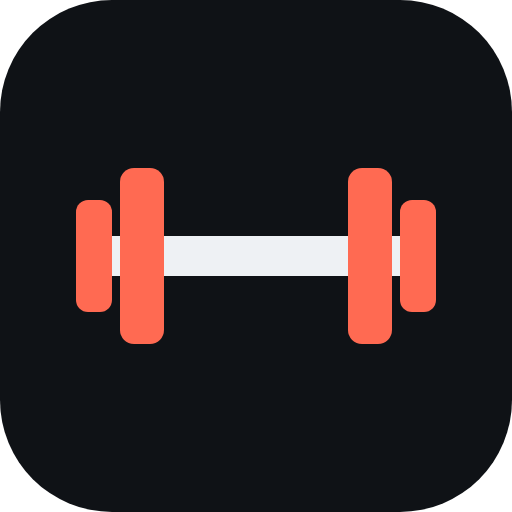
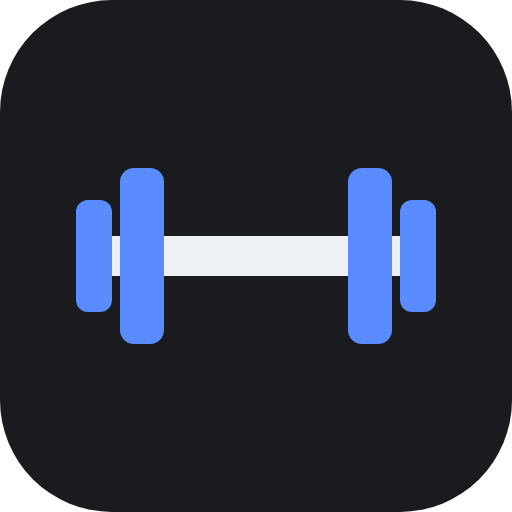
Visual pass: bumper-plate color system and arm's-length type
- Colors carry meaning from the gym: plate blue for actions, green for
  increases, yellow for hold steady, red for back off; cool steel and
  graphite neutrals in light and dark themes
- Big Shoulders Display for numbers, timers and headings so weights and
  countdowns read at arm's length; Atkinson Hyperlegible for body text
- Sentence-case labels instead of all-caps eyebrows and pills
- Coach-note tags styled as plate-colored chips; hold and EMOM timers
  use yellow and green rings
- Plate calculator draws plates in their real colors
- Round steppers, larger set and timer numbers
- App icon and theme color updated to match

Claude-Session: https://claude.ai/code/session_01EAXkF6UoUcypg4fSoQEr4N

Changed region(s): [[0.6562, 0.3125, 0.875, 0.6875], [0.125, 0.3125, 0.3438, 0.6875]]

diff --git a/index.html b/index.html
@@ -9,23 +9,28 @@
 <meta name="apple-mobile-web-app-capable" content="yes">
 <meta name="mobile-web-app-capable" content="yes">
 <title>LiftLog</title>
-<meta name="theme-color" content="#0f1216">
+<meta name="theme-color" content="#191b1e">
 <link rel="preconnect" href="https://fonts.googleapis.com">
-<link rel="stylesheet" href="https://fonts.googleapis.com/css2?family=Inter:wght@400;500;600;700&family=Space+Grotesk:wght@500;700&display=swap">
+<link rel="stylesheet" href="https://fonts.googleapis.com/css2?family=Atkinson+Hyperlegible:wght@400;700&family=Big+Shoulders+Display:wght@600;700;800&display=swap">
 <style>
-/* Layout: one-column phone coach. Sticky header, bottom tabs; the workout screen shows one set at a time with one big button. */
+/* Layout: one-column phone coach. Sticky header, bottom tabs; the workout screen shows one set at a time with big numbers you can read at arm's length.
+   Palette: bumper-plate colors carry meaning. Blue (20 kg plate) = act, green = progress, yellow = hold steady, red = back off. Neutrals are cool steel and rubber-floor graphite. */
 :root{
-  --bg:#eef0f3;--surface:#ffffff;--surface2:#e2e6eb;--fg:#15191e;--muted:#5b6673;--line:#d4dae1;
-  --accent:#d23f2b;--on-accent:#ffffff;--chart:#d23f2b;--done:#e1f3e7;--done-fg:#1b7442;--on-done:#ffffff;--warn:#a85d00;--warn-bg:#fbefdc;--danger:#b8322a;--scrim:rgba(15,18,22,.45);
-  --font-display:"Space Grotesk",ui-sans-serif,system-ui,sans-serif;
-  --font-body:"Inter",ui-sans-serif,system-ui,-apple-system,"Segoe UI",Roboto,sans-serif;
+  --bg:#edf0f3;--surface:#ffffff;--surface2:#e2e7ec;--fg:#14181c;--muted:#55606b;--line:#d2d9e0;
+  --accent:#1f56d0;--on-accent:#ffffff;--chart:#1f56d0;
+  --plate-green:#1d7a44;--plate-yellow:#efc21a;--plate-red:#c8352a;--on-yellow:#1a1606;
+  --done:#ddf0e4;--done-fg:#17703f;--on-done:#ffffff;--warn:#7a5a00;--warn-bg:#fbf0c7;--danger:#b3302a;--scrim:rgba(20,24,28,.45);
+  --font-display:"Big Shoulders Display","Arial Narrow","Roboto Condensed",sans-serif;
+  --font-body:"Atkinson Hyperlegible",ui-sans-serif,system-ui,-apple-system,"Segoe UI",Roboto,sans-serif;
   color-scheme:light}
 @media (prefers-color-scheme:dark){:root:not([data-theme="light"]){
-  --bg:#0f1216;--surface:#181c22;--surface2:#242a32;--fg:#eef1f4;--muted:#8f9aa7;--line:#2b323b;
-  --accent:#ff6a52;--on-accent:#1b0703;--chart:#f2563f;--done:#15301f;--done-fg:#5fd38e;--on-done:#08170e;--warn:#f0b35a;--warn-bg:#33260f;--danger:#ff8274;--scrim:rgba(0,0,0,.6);color-scheme:dark}}
+  --bg:#191b1e;--surface:#222529;--surface2:#2d3136;--fg:#edf0f3;--muted:#9aa4ae;--line:#353a41;
+  --accent:#5b8cff;--on-accent:#0a1430;--chart:#5b8cff;
+  --done:#183322;--done-fg:#61d391;--on-done:#08170e;--warn:#f3cd4b;--warn-bg:#352d10;--danger:#ff8a7c;--scrim:rgba(0,0,0,.6);color-scheme:dark}}
 :root[data-theme="dark"]{
-  --bg:#0f1216;--surface:#181c22;--surface2:#242a32;--fg:#eef1f4;--muted:#8f9aa7;--line:#2b323b;
-  --accent:#ff6a52;--on-accent:#1b0703;--chart:#f2563f;--done:#15301f;--done-fg:#5fd38e;--on-done:#08170e;--warn:#f0b35a;--warn-bg:#33260f;--danger:#ff8274;--scrim:rgba(0,0,0,.6);color-scheme:dark}
+  --bg:#191b1e;--surface:#222529;--surface2:#2d3136;--fg:#edf0f3;--muted:#9aa4ae;--line:#353a41;
+  --accent:#5b8cff;--on-accent:#0a1430;--chart:#5b8cff;
+  --done:#183322;--done-fg:#61d391;--on-done:#08170e;--warn:#f3cd4b;--warn-bg:#352d10;--danger:#ff8a7c;--scrim:rgba(0,0,0,.6);color-scheme:dark}
 *{box-sizing:border-box;-webkit-tap-highlight-color:transparent}
 [hidden]{display:none!important}
 body{margin:0;background:var(--bg);color:var(--fg);font:16px/1.45 var(--font-body);padding-bottom:calc(76px + env(safe-area-inset-bottom,0px))}
@@ -35,9 +40,9 @@ body::before{content:"";position:fixed;inset:0 0 auto;height:env(safe-area-inset
 header{position:sticky;top:env(safe-area-inset-top,0px);background:var(--bg);border-bottom:1px solid var(--line);z-index:5;padding-block:14px 10px}
 header .in{max-width:640px;margin:0 auto;display:flex;align-items:center;justify-content:space-between;gap:8px}
 h1,h3,.fname{font-family:var(--font-display);font-weight:700;margin:0;text-wrap:balance}
-h1{font-size:21px;letter-spacing:-.01em;min-width:0;flex:1}
-h3{font-size:19px}
-h2{font-size:12px;color:var(--muted);font-weight:600;margin:12px 0 -2px;text-transform:uppercase;letter-spacing:.08em}
+h1{font-size:28px;line-height:1;min-width:0;flex:1}
+h3{font-size:24px;line-height:1.1}
+h2{font-size:15px;color:var(--muted);font-weight:700;margin:14px 0 -2px}
 .badge{font-size:12px;color:var(--muted);border:1px solid var(--line);border-radius:999px;padding:3px 10px;white-space:nowrap;font-variant-numeric:tabular-nums}
 .badge.saved::before{content:"● ";color:var(--done-fg)}
 .mic{width:36px;height:36px;border-radius:50%;border:1px solid var(--line);background:var(--surface);color:var(--fg);display:grid;place-items:center;cursor:pointer;flex:none}
@@ -73,10 +78,10 @@ label>span{display:block;font-size:13px;color:var(--muted);margin-bottom:4px}
 .tools{display:grid;grid-template-columns:1fr 1fr;gap:8px}
 .stats{display:flex;gap:8px}
 .stats>div{flex:1;min-width:0}
-.stats strong{font:700 18px var(--font-display);font-variant-numeric:tabular-nums}
+.stats strong{font:800 24px/1.1 var(--font-display);font-variant-numeric:tabular-nums}
 .kpis{display:grid;grid-template-columns:repeat(3,1fr);gap:8px}
 .kpi{background:var(--surface);border:1px solid var(--line);border-radius:12px;padding:12px;min-width:0}
-.kpi strong{display:block;font:700 21px var(--font-display);font-variant-numeric:tabular-nums}
+.kpi strong{display:block;font:800 28px/1.1 var(--font-display);font-variant-numeric:tabular-nums}
 .list{display:flex;flex-direction:column;border:1px solid var(--line);border-radius:12px;overflow:hidden}
 .item{display:flex;justify-content:space-between;align-items:center;gap:8px;width:100%;text-align:left;background:var(--surface);border:0;border-bottom:1px solid var(--line);color:var(--fg);padding:13px 12px;font:15px var(--font-body);cursor:pointer}
 .item:last-child{border-bottom:0}
@@ -85,17 +90,17 @@ label>span{display:block;font-size:13px;color:var(--muted);margin-bottom:4px}
 .exline:first-child{border-top:0}
 .exline>span:first-child{min-width:0}
 .exline>span:last-child{white-space:nowrap;text-align:right}
-.pill{display:inline-block;font-size:11px;font-weight:700;letter-spacing:.05em;padding:1px 7px;border-radius:999px;background:var(--surface2);color:var(--muted);vertical-align:1px;white-space:nowrap}
+.pill{display:inline-block;font-size:12px;font-weight:700;padding:1px 8px;border-radius:999px;background:var(--surface2);color:var(--muted);vertical-align:1px;white-space:nowrap}
 .pill.pr{background:var(--accent);color:var(--on-accent)}
 .chips{display:flex;flex-wrap:wrap;gap:8px}
 .chip{padding:8px 12px;border-radius:999px;border:1px solid var(--line);background:var(--surface);color:var(--fg);font:600 14px var(--font-body);cursor:pointer}
 .chip.on{background:var(--fg);color:var(--bg);border-color:var(--fg)}
 /* coach notes: the tag color encodes the kind of change */
-.tag{display:inline-block;font-size:12px;font-weight:700;padding:2px 8px;border-radius:6px;white-space:nowrap}
-.tag.up{background:var(--done);color:var(--done-fg)}
-.tag.reps,.tag.new{background:var(--surface2);color:var(--fg)}
-.tag.same{background:var(--surface2);color:var(--muted)}
-.tag.down{background:var(--warn-bg);color:var(--warn)}
+.tag{display:inline-block;font:800 17px/1.2 var(--font-display);padding:2px 9px;border-radius:4px;white-space:nowrap}
+.tag.up{background:var(--plate-green);color:#fff}
+.tag.reps,.tag.new{background:var(--accent);color:var(--on-accent)}
+.tag.same{background:var(--plate-yellow);color:var(--on-yellow)}
+.tag.down{background:var(--plate-red);color:#fff}
 .note{display:flex;flex-direction:column;gap:4px}
 .note p{margin:0;font-size:14px;color:var(--muted)}
 .plan{display:flex;flex-direction:column}
@@ -123,24 +128,26 @@ label>span{display:block;font-size:13px;color:var(--muted);margin-bottom:4px}
 .rbar{height:6px;border-radius:3px;background:var(--surface2);overflow:hidden}
 .rbar span{display:block;height:100%;background:var(--done-fg);border-radius:3px}
 /* focus mode */
-.eyebrow{font-size:12px;letter-spacing:.08em;text-transform:uppercase;color:var(--muted);font-weight:600}
-.fname{font-size:26px;line-height:1.15}
+.eyebrow{font-size:14px;color:var(--muted);font-weight:700}
+.fname{font-size:36px;line-height:1}
 .field{display:flex;align-items:center;gap:10px;background:var(--surface);border:1px solid var(--line);border-radius:14px;padding:10px}
-.step{width:56px;height:56px;flex:none;border-radius:12px;border:0;background:var(--surface2);color:var(--fg);font:600 28px var(--font-display);cursor:pointer}
+.step{width:58px;height:58px;flex:none;border-radius:50%;border:0;background:var(--surface2);color:var(--fg);font:700 30px var(--font-display);cursor:pointer}
 .fv{flex:1;min-width:0;text-align:center}
-.fv input{font:700 36px var(--font-display);text-align:center;background:transparent;border:0;padding:0;width:100%;font-variant-numeric:tabular-nums;-moz-appearance:textfield}
+.fv input{font:800 52px/1.05 var(--font-display);text-align:center;background:transparent;border:0;padding:0;width:100%;font-variant-numeric:tabular-nums;-moz-appearance:textfield}
 .fv input::-webkit-outer-spin-button,.fv input::-webkit-inner-spin-button{-webkit-appearance:none;margin:0}
-.fv span{display:block;font-size:12px;color:var(--muted);text-transform:uppercase;letter-spacing:.08em}
-.bigbtn{width:100%;min-height:76px;font:700 22px var(--font-display);border-radius:16px;background:var(--accent);color:var(--on-accent);border:0;cursor:pointer}
+.fv span{display:block;font-size:14px;color:var(--muted)}
+.bigbtn{width:100%;min-height:78px;font:800 30px var(--font-display);letter-spacing:.01em;border-radius:14px;background:var(--accent);color:var(--on-accent);border:0;cursor:pointer}
 .sets-strip{display:flex;gap:6px;flex-wrap:wrap}
 .dot{padding:4px 10px;border-radius:999px;background:var(--surface2);color:var(--muted);font-size:13px;font-variant-numeric:tabular-nums}
 .dot.done{background:var(--done);color:var(--done-fg);font-weight:600}
 .dot.cur{background:var(--fg);color:var(--bg);font-weight:700}
 .timer{display:flex;flex-direction:column;align-items:center;gap:10px;padding:8px 0}
-.ring{--p:100;width:230px;height:230px;max-width:72vw;max-height:72vw;border-radius:50%;background:conic-gradient(var(--accent) calc(var(--p)*1%),var(--surface2) 0);display:grid;place-items:center}
+.ring{--p:100;--rc:var(--accent);width:230px;height:230px;max-width:72vw;max-height:72vw;border-radius:50%;background:conic-gradient(var(--rc) calc(var(--p)*1%),var(--surface2) 0);display:grid;place-items:center}
 .ring>div{width:86%;height:86%;border-radius:50%;background:var(--bg);display:grid;place-items:center;text-align:center;align-content:center;gap:2px}
-.ring strong{font:700 60px/1 var(--font-display);font-variant-numeric:tabular-nums}
-.ring .word{font:700 22px var(--font-display);text-transform:uppercase;letter-spacing:.06em}
+.ring.hold{--rc:var(--plate-yellow)}
+.ring.emom{--rc:var(--plate-green)}
+.ring strong{font:800 84px/.95 var(--font-display);font-variant-numeric:tabular-nums}
+.ring .word{font:800 30px var(--font-display)}
 .seg{display:grid;grid-template-columns:repeat(3,1fr);gap:8px}
 .seg.five{grid-template-columns:repeat(5,1fr)}
 .seg button{padding:14px 6px;border-radius:12px;border:1px solid var(--line);background:var(--surface);color:var(--fg);font:600 15px var(--font-body);cursor:pointer}
@@ -156,7 +163,7 @@ label>span{display:block;font-size:13px;color:var(--muted);margin-bottom:4px}
 #mini{position:fixed;left:0;right:0;bottom:calc(66px + env(safe-area-inset-bottom,0px));z-index:7;background:var(--surface2);border-top:1px solid var(--line);overflow:hidden}
 #mini .fill{position:absolute;left:0;top:0;bottom:0;background:var(--accent);opacity:.16;transition:width .3s linear}
 #mini .in{position:relative;max-width:640px;margin:0 auto;padding-block:8px}
-#miniTxt{font:700 21px var(--font-display);font-variant-numeric:tabular-nums}
+#miniTxt{font:800 28px/1 var(--font-display);font-variant-numeric:tabular-nums}
 #toast{position:fixed;left:50%;top:calc(14px + env(safe-area-inset-top,0px));transform:translateX(-50%) translateY(-220%);visibility:hidden;background:var(--fg);color:var(--bg);padding:10px 16px;border-radius:10px;font-weight:600;z-index:30;transition:transform .25s,visibility .25s;max-width:calc(100% - 32px)}
 #toast.show{transform:translateX(-50%) translateY(0);visibility:visible}
 .ritem{display:flex;align-items:center;gap:6px;padding:8px 0;border-top:1px solid var(--line)}
@@ -186,8 +193,10 @@ table.tv{width:100%;border-collapse:collapse;font-size:13px;font-variant-numeric
 .platevis{display:flex;align-items:center;justify-content:center;gap:3px;padding:12px 0;min-height:130px;overflow-x:auto}
 .platevis .barend{width:46px;height:10px;background:var(--muted);border-radius:3px}
 .platevis .collar{width:8px;height:26px;background:var(--muted);border-radius:2px}
-.platevis .pl{width:16px;border-radius:4px;background:var(--fg);display:flex;align-items:flex-end;justify-content:center}
-.platevis .pl span{font-size:10px;color:var(--bg);font-weight:700;writing-mode:vertical-rl;transform:rotate(180deg);padding:4px 0}
+.platevis .pl{width:18px;border-radius:4px;background:var(--fg);display:flex;align-items:flex-end;justify-content:center}
+.platevis .pl.c-red{background:var(--plate-red)}.platevis .pl.c-blue{background:#1f56d0}.platevis .pl.c-yellow{background:var(--plate-yellow)}.platevis .pl.c-green{background:var(--plate-green)}
+.platevis .pl.c-yellow span{color:var(--on-yellow)}.platevis .pl.c-red span,.platevis .pl.c-blue span,.platevis .pl.c-green span{color:#fff}
+.platevis .pl span{font-size:11px;color:var(--bg);font-weight:700;writing-mode:vertical-rl;transform:rotate(180deg);padding:4px 0}
 /* setup */
 .opt{display:flex;flex-direction:column;gap:2px;text-align:left;width:100%;padding:14px;border-radius:14px;border:1.5px solid var(--line);background:var(--surface);color:var(--fg);font:15px var(--font-body);cursor:pointer}
 .opt span{color:var(--muted);font-size:13px}
@@ -195,13 +204,13 @@ table.tv{width:100%;border-collapse:collapse;font-size:13px;font-variant-numeric
 .prog{height:6px;border-radius:3px;background:var(--surface2);overflow:hidden}
 .prog span{display:block;height:100%;background:var(--accent);transition:width .3s}
 .btn:disabled{opacity:.45;cursor:not-allowed}
-.dayname{font:700 17px var(--font-display);background:transparent!important;border:1px solid transparent!important;padding:4px 6px!important;border-radius:8px;color:var(--fg)}
+.dayname{font:800 24px var(--font-display);background:transparent!important;border:1px solid transparent!important;padding:4px 6px!important;border-radius:8px;color:var(--fg)}
 .dayname:focus{border-color:var(--line)!important}
 .hero{display:flex;flex-direction:column;gap:14px;padding-block:18px 6px}
-.hero h2{font:700 34px/1.08 var(--font-display);text-transform:none;letter-spacing:-.02em;color:var(--fg);margin:0;text-wrap:balance}
+.hero h2{font:800 50px/.95 var(--font-display);text-transform:none;color:var(--fg);margin:0;text-wrap:balance}
 .hero ul{margin:0;padding:0;list-style:none;display:flex;flex-direction:column;gap:10px}
 .hero li{display:grid;grid-template-columns:28px 1fr;gap:8px;align-items:start;font-size:15px}
-.hero li b{width:28px;height:28px;border-radius:8px;background:var(--surface2);display:grid;place-items:center;font:700 14px var(--font-display)}
+.hero li b{width:28px;height:28px;border-radius:50%;background:var(--accent);color:var(--on-accent);display:grid;place-items:center;font:800 17px var(--font-display)}
 p{margin:0}
 @media (prefers-reduced-motion:reduce){#toast,#mini .fill{transition:none}}
 </style>
@@ -714,16 +723,16 @@ function weekCard(){
 function recoveryCard(){
   if(!S.workouts.some(w=>Date.now()-w.start<7*864e5))return '<div class="card"><div class="eyebrow">Muscle recovery</div><p class="muted">Estimates of which muscles are ready for more work show up after your first workout.</p></div>';
   const R=readiness();
-  return `<div class="card"><div class="row"><div class="eyebrow grow">Muscle recovery</div><span class="pill">ESTIMATE</span></div>
+  return `<div class="card"><div class="row"><div class="eyebrow grow">Muscle recovery</div><span class="pill">Estimate</span></div>
     <div class="body-map">${bodyMap(R)}<div class="rlist">${GROUPS.map(g=>`<div><span>${g}</span><span class="rbar"><span style="width:${R[g]}%"></span></span><span>${R[g]}%</span></div>`).join('')}</div></div>
     <p class="muted">Estimated from the last 7 days of sets, how hard they felt, and your soreness check-ins. Not a medical measurement.</p></div>`;
 }
 function vHome(){
   const nx=upNext();
-  const card=nx?`<div class="card"><div class="eyebrow">Up next</div><div class="row"><h3 class="grow">${esc(nx.name)}</h3>${nx.sample?'<span class="pill">SAMPLE</span>':''}</div>
+  const card=nx?`<div class="card"><div class="eyebrow">Up next</div><div class="row"><h3 class="grow">${esc(nx.name)}</h3>${nx.sample?'<span class="pill">Sample</span>':''}</div>
       <div class="stats"><div><div class="muted">Estimated</div><strong>${estimateMinutes(nx.items)} min</strong></div><div><div class="muted">Exercises</div><strong>${nx.items.length}</strong></div><div><div class="muted">Last done</div><strong>${routineLast(nx.id)>0?shortDate(routineLast(nx.id)):'Never'}</strong></div></div>
       <button class="btn primary big block" data-a="preview" data-id="${nx.id}">See today’s plan</button></div>`:`<div class="card"><h3>Build your first routine</h3><p class="muted">Pick exercises and sets; LiftLog plans the weights and timers from there.</p><button class="btn primary block" data-a="newRoutine">+ New routine</button></div>`;
-  const others=S.routines.filter(r=>r!==nx).map(r=>`<button class="item" data-a="preview" data-id="${r.id}"><span><strong>${esc(r.name)}</strong>${r.sample?' <span class="pill">SAMPLE</span>':''}<br><span class="muted">${r.items.length} exercises · about ${estimateMinutes(r.items)} min</span></span><span class="muted">Plan ›</span></button>`).join('');
+  const others=S.routines.filter(r=>r!==nx).map(r=>`<button class="item" data-a="preview" data-id="${r.id}"><span><strong>${esc(r.name)}</strong>${r.sample?' <span class="pill">Sample</span>':''}<br><span class="muted">${r.items.length} exercises · about ${estimateMinutes(r.items)} min</span></span><span class="muted">Plan ›</span></button>`).join('');
   return `${profileSelect()}${deloadCard()}${card}${weekCard()}${recoveryCard()}${others?`<h2>Other routines</h2><div class="list">${others}</div>`:''}
     <div class="row"><button class="btn grow" data-a="newRoutine">+ New routine</button><button class="btn grow" data-a="startEmpty">Empty workout</button></div>`;
 }
@@ -737,7 +746,7 @@ function vPreview(){
   let rec='';if(low.length){const alt=S.routines.filter(x=>x.id!==r.id).map(x=>{const ms=routineMuscles(x.items);return {x,avg:ms.length?ms.reduce((a,g)=>a+R[g],0)/ms.length:0}}).sort((a,b)=>b.avg-a.avg)[0];
     rec=`<div class="card warn"><strong>Recovery check</strong><p class="muted" style="color:inherit">${low.map(g=>`${g} about ${R[g]}%`).join(', ')} recovered (estimate).${alt&&alt.avg>=70?` ${esc(alt.x.name)} works muscles that are more recovered.`:''}</p>${alt&&alt.avg>=70?`<button class="btn sm" data-a="preview" data-id="${alt.x.id}">See ${esc(alt.x.name)} instead</button>`:''}</div>`}
   const lim=view.limit,mins=estimateMinutes(plan);
-  return `<div class="card"><div class="row"><h3 class="grow">${esc(r.name)}</h3><span class="pill">${deloadActive()?'DELOAD':'READY'}</span></div>
+  return `<div class="card"><div class="row"><h3 class="grow">${esc(r.name)}</h3><span class="pill">${deloadActive()?'Deload':'Ready'}</span></div>
       <div class="stats"><div><div class="muted">Estimated duration</div><strong>${mins} min</strong></div><div><div class="muted">Exercises</div><strong>${plan.length}</strong></div></div>
       <div><div class="muted" style="margin-bottom:6px">Time available</div><div class="seg five">${[[null,'Full'],[60,'60'],[45,'45'],[30,'30'],[20,'20']].map(([v,l])=>`<button data-a="limit" data-v="${v??''}" class="${lim===v?'on':''}" aria-pressed="${lim===v}">${l}${v?'m':''}</button>`).join('')}</div></div>
       ${lim&&notes.length?`<div class="note"><div><span class="tag same">Shortened from ${before} min</span></div><p>${notes.map(esc).join(' · ')}. Main lifts are kept first.</p></div>`:lim&&!notes.length?'<p class="muted">The full session already fits.</p>':''}</div>
@@ -750,7 +759,7 @@ function vSummary(){
   const w=S.workouts.find(w=>w.id===view.summary);if(!w){view.summary=null;return vHome()}
   const prs=(w.prs||[]).filter(p=>typeof p!=='string');
   const next=w.exercises.map(x=>{const ex=exById(x.exId);if(!ex)return '';const rec=deloadAdj(recommend(ex,x.sets.length),ex);return `<div><div class="nm"><span>${esc(ex.name)}</span></div>${noteHtml(rec)}</div>`}).join('');
-  return `<div class="card"><h3>${esc(w.name)}${w.deload?' <span class="pill">DELOAD</span>':''}</h3><div class="stats"><div><div class="muted">Time</div><strong>${dur(w.end-w.start)}</strong></div><div><div class="muted">Volume</div><strong>${fmtNum(volume(w))} ${S.unit}</strong></div><div><div class="muted">Sets</div><strong>${setCount(w)}</strong></div></div></div>
+  return `<div class="card"><h3>${esc(w.name)}${w.deload?' <span class="pill">Deload</span>':''}</h3><div class="stats"><div><div class="muted">Time</div><strong>${dur(w.end-w.start)}</strong></div><div><div class="muted">Volume</div><strong>${fmtNum(volume(w))} ${S.unit}</strong></div><div><div class="muted">Sets</div><strong>${setCount(w)}</strong></div></div></div>
     ${prs.length?`<div class="card"><div class="eyebrow">New records</div><div>${prs.map(p=>`<div class="exline"><span>${esc(exName(p.exId))}</span><span><span class="pill pr">PR</span> ${esc(p.text)}</span></div>`).join('')}</div></div>`:''}
     <div class="card"><div class="eyebrow">Next time</div><div class="plan">${next}</div></div>
     <button class="btn primary big block" data-a="closeSummary">Done</button>`;
@@ -806,14 +815,14 @@ function vRest(){
 function vHold(){
   const {A,x,ex}=curParts();
   return `<div><div class="eyebrow">Set ${A.cur.si+1} of ${x.sets.length}</div><div class="fname">${esc(ex.name)}</div></div>
-    <div class="timer"><div class="ring" id="ring"><div><strong id="holdBig">${A.hold.target}</strong><span class="muted" id="holdLbl">Get ready</span></div></div></div>
+    <div class="timer"><div class="ring hold" id="ring"><div><strong id="holdBig">${A.hold.target}</strong><span class="muted" id="holdLbl">Get ready</span></div></div></div>
     <button class="bigbtn" data-a="holdStop">Stop · log time held</button>
     <button class="btn block ghost" data-a="holdCancel">Cancel this hold</button>`;
 }
 function vEmom(){
   const {A,ex}=curParts(),E=A.emom,U=S.unit,round=emomRound();
   return `<div><div class="eyebrow">EMOM · a new round every ${clock(E.interval)}</div><div class="fname">${esc(ex.name)}</div><div class="muted">Do ${E.r} reps${E.w?` at ${fmtW(E.w)} ${U}`:''}, then rest until the next beep.</div></div>
-    <div class="timer"><div class="ring" id="ring"><div><span class="muted" id="emRound">Get ready</span><strong id="emBig">0:03</strong><span class="muted">until next round</span></div></div></div>
+    <div class="timer"><div class="ring emom" id="ring"><div><span class="muted" id="emRound">Get ready</span><strong id="emBig">0:03</strong><span class="muted">until next round</span></div></div></div>
     <button class="check ${E.missed.includes(round)?'on':''}" data-a="emomMiss" id="emMiss" aria-pressed="${E.missed.includes(round)}"><span class="box">${E.missed.includes(round)?'✓':''}</span>I missed this round</button>
     <button class="btn block ghost" data-a="emomEnd">End EMOM early</button>`;
 }
@@ -862,9 +871,9 @@ function vHistory(){
   return kpis+chart+list.map(w=>{
     const prs=prIds(w);
     const lines=w.exercises.map(x=>{const ex=exById(x.exId);const best=x.sets.reduce((b,s)=>setScore(s,ex)>setScore(b,ex)?s:b,x.sets[0]);
-      return `<div class="exline"><span>${x.sets.length} × ${esc(exName(x.exId))}${prs.has(x.exId)?' <span class="pill pr">PR</span>':''}${x.feel?` <span class="pill">${esc(x.feel.toUpperCase())}</span>`:''}</span><span class="muted">best ${best?esc(fmtSet(best,ex)):''}</span></div>`}).join('');
+      return `<div class="exline"><span>${x.sets.length} × ${esc(exName(x.exId))}${prs.has(x.exId)?' <span class="pill pr">PR</span>':''}${x.feel?` <span class="pill">${esc(x.feel[0].toUpperCase()+x.feel.slice(1))}</span>`:''}</span><span class="muted">best ${best?esc(fmtSet(best,ex)):''}</span></div>`}).join('');
     const c=w.checkin;
-    return `<div class="card"><div><strong>${esc(w.name)}</strong>${w.sample?' <span class="pill">SAMPLE</span>':''}${w.deload?' <span class="pill">DELOAD</span>':''}<div class="muted">${fmtDate(w.start)}${c?` · Energy ${CHECK.energy[c.energy-1]||'–'} · Soreness ${CHECK.soreness[c.soreness-1]||'–'} · ${CHECK.difficulty[c.difficulty-1]||'–'}`:''}</div></div>
+    return `<div class="card"><div><strong>${esc(w.name)}</strong>${w.sample?' <span class="pill">Sample</span>':''}${w.deload?' <span class="pill">Deload</span>':''}<div class="muted">${fmtDate(w.start)}${c?` · Energy ${CHECK.energy[c.energy-1]||'–'} · Soreness ${CHECK.soreness[c.soreness-1]||'–'} · ${CHECK.difficulty[c.difficulty-1]||'–'}`:''}</div></div>
       <div class="stats"><div><div class="muted">Time</div><strong>${dur(w.end-w.start)}</strong></div><div><div class="muted">Volume</div><strong>${fmtNum(volume(w))} ${S.unit}</strong></div><div><div class="muted">Sets</div><strong>${setCount(w)}</strong></div></div>
       <div>${lines}</div>
       <div class="row"><button class="btn sm" data-a="saveRoutine" data-id="${w.id}">Save as routine</button><span class="grow"></span><button class="btn sm danger" data-a="delWorkout" data-id="${w.id}">Delete</button></div></div>`;
@@ -892,7 +901,7 @@ function vSettings(){
     <div class="card"><div class="chips">${[[4,'4 weeks'],[5,'5 weeks'],[6,'6 weeks'],[0,'Off']].map(([v,l])=>`<button class="chip ${(S.blockWeeks||0)===v?'on':''}" data-a="blockW" data-v="${v}" aria-pressed="${(S.blockWeeks||0)===v}">${l}</button>`).join('')}</div>
     <p class="muted">${(()=>{const b=blockInfo();return deloadActive()?`Deload week until ${fmtDate(S.deloadUntil)}. Your next block starts after it.`:b?`You’re in week ${Math.min(b.wk,b.total)} of ${b.total}. A deload week is planned after week ${b.total}.`:'No planned deloads. LiftLog still suggests one when your lifts stall or check-ins say you’re worn out.'})()}</p></div>
     <h2>Equipment profiles</h2>
-    <div class="list">${S.profiles.map(p=>`<button class="item" data-a="editProfile" data-id="${esc(p.id)}"><span><strong>${esc(p.name)}</strong>${p.id===S.profileId?' <span class="pill">ACTIVE</span>':''}<br><span class="muted">${esc(p.equip.join(', '))}</span></span><span class="muted">Edit ›</span></button>`).join('')}</div>
+    <div class="list">${S.profiles.map(p=>`<button class="item" data-a="editProfile" data-id="${esc(p.id)}"><span><strong>${esc(p.name)}</strong>${p.id===S.profileId?' <span class="pill">Active</span>':''}<br><span class="muted">${esc(p.equip.join(', '))}</span></span><span class="muted">Edit ›</span></button>`).join('')}</div>
     <button class="btn block" data-a="newProfile">+ New equipment profile</button>
     <h2>Tools</h2>
     <div class="card"><button class="btn block" data-a="plates">Plate calculator</button>
@@ -975,10 +984,11 @@ function plateSheet(w){
     <div><div class="eyebrow" style="margin-bottom:8px">Plates you have (${U})</div><div class="chips">${ALLPLATES[U].map(p=>`<button class="chip ${S.plates[U].includes(p)?'on':''}" data-a="plToggle" data-v="${p}" aria-pressed="${S.plates[U].includes(p)}">${p}</button>`).join('')}</div></div>`);
   renderPlates();
 }
+function plateColor(x){const m=S.unit==='kg'?{25:'red',20:'blue',15:'yellow',10:'green'}:{55:'red',45:'blue',35:'yellow',25:'green'};return m[x]?'c-'+m[x]:''}
 function renderPlates(){
   const out=$('#pl-out');if(!out)return;const U=S.unit,w=+$('#pl-target').value||0,p=platesFor(w),max=Math.max(...ALLPLATES[U]);
   if(p.below){out.innerHTML=`<p>${w?`${fmtW(w)} ${U} is below the ${S.bar[U]} ${U} bar.`:'Enter a target weight.'}</p>`;return}
-  const vis=`<div class="platevis" aria-hidden="true"><div class="barend"></div><div class="collar"></div>${p.per.map(x=>`<div class="pl" style="height:${Math.round(40+80*x/max)}px"><span>${fmtW(x)}</span></div>`).join('')}<div class="barend" style="width:18px"></div></div>`;
+  const vis=`<div class="platevis" aria-hidden="true"><div class="barend"></div><div class="collar"></div>${p.per.map(x=>`<div class="pl ${plateColor(x)}" style="height:${Math.round(40+80*x/max)}px"><span>${fmtW(x)}</span></div>`).join('')}<div class="barend" style="width:18px"></div></div>`;
   out.innerHTML=`<div class="eyebrow">Load each side</div>${vis}<strong>${p.per.length?p.per.map(fmtW).join(' + '):'Empty bar'}</strong>${p.rem>0?`<p class="muted">Closest you can load is ${fmtW(w-p.rem)} ${U}: ${fmtW(p.rem)} ${U} short with these plates.</p>`:`<p class="muted">${fmtW(w)} ${U} total with a ${S.bar[U]} ${U} bar.</p>`}`;
 }
 function swapSheet(){
@@ -992,7 +1002,7 @@ function curWeight(){const {x,s}=curParts();return +s?.w||+x?.rec?.w||(exHistory
 function overviewSheet(){
   sheetRender=overviewSheet;
   const A=S.active;
-  const rows=A.exercises.map((x,ei)=>{const ex=exById(x.exId);return `<div class="card"><div class="row"><strong class="grow">${esc(ex?.name||'Exercise')}</strong>${ei===A.cur.ei?'<span class="pill">NOW</span>':''}</div>${strip(x,ex,-1)}
+  const rows=A.exercises.map((x,ei)=>{const ex=exById(x.exId);return `<div class="card"><div class="row"><strong class="grow">${esc(ex?.name||'Exercise')}</strong>${ei===A.cur.ei?'<span class="pill">Now</span>':''}</div>${strip(x,ex,-1)}
     <div class="row"><button class="btn sm" data-a="jump" data-ei="${ei}">Go to</button><button class="btn sm" data-a="addSet" data-ei="${ei}">+ ${ex?.type==='emom'?'Round':'Set'}</button><span class="grow"></span><button class="btn sm danger" data-a="delEx" data-ei="${ei}">Remove</button></div></div>`}).join('');
   openSheet(`<div class="row"><h3 class="grow">All exercises</h3><button class="btn sm" data-a="closeSheet">Close</button></div>${rows}
     <button class="btn block" data-a="addEx">+ Add exercise</button>
@@ -1230,7 +1240,7 @@ function vSetup(){
     +nav(!!su.place&&su.equip.length>0);
   if(st===5)return head('When do you want to train?',su.level==='new'?'Starting out, 2 or 3 days a week with a rest day between is plenty.':'Pick the days you can usually make it.')
     +`<div class="chips">${DAYS.map((d,i)=>`<button class="chip ${su.days.includes(i)?'on':''}" data-a="suDay" data-v="${i}" aria-pressed="${su.days.includes(i)}">${d}</button>`).join('')}</div>
-    <p class="muted">${su.days.length?`${su.days.length} day${su.days.length>1?'s':''} a week → ${planTitle(su.days.length)}`:'Pick at least one day.'}</p>
+    <p class="muted">${su.days.length?`${su.days.length} day${su.days.length>1?'s':''} a week: ${planTitle(su.days.length).toLowerCase()}`:'Pick at least one day.'}</p>
     <div><div class="eyebrow" style="margin-bottom:8px">How long is a typical session?</div><div class="seg five" style="grid-template-columns:repeat(4,1fr)">${[[30,'30 min'],[45,'45 min'],[60,'60 min'],[null,'No limit']].map(([v,l])=>`<button data-a="suMins" data-v="${v??''}" class="${su.mins===v?'on':''}" aria-pressed="${su.mins===v}">${l}</button>`).join('')}</div></div>
     <p class="muted">Longer routines get trimmed to fit, keeping your main lifts.</p>`+nav(su.days.length>0);
   if(st===6){const days=su.plan||[];

diff --git a/sw.js b/sw.js
@@ -1,5 +1,5 @@
 // LiftLog service worker: caches the app on first visit so it opens with no connection.
-const CACHE = 'liftlog-v4';
+const CACHE = 'liftlog-v5';
 const SHELL = ['./', 'index.html', 'manifest.webmanifest', 'icons/icon.svg', 'icons/icon-192.png', 'icons/icon-512.png'];
 
 self.addEventListener('install', e => {
